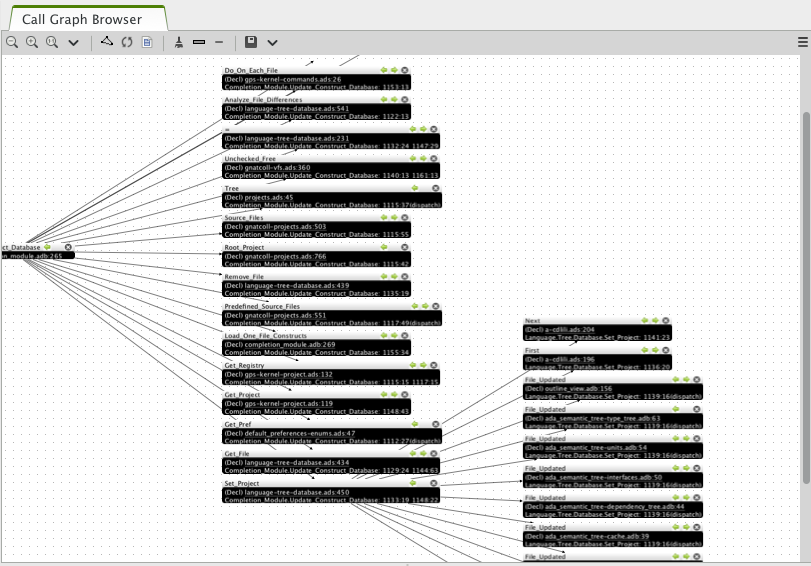
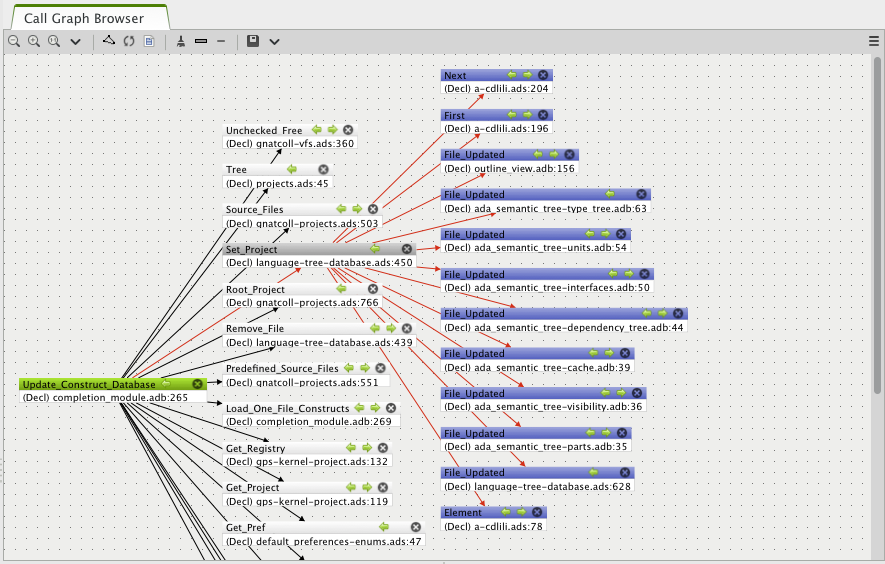
Update callgraph browers doc and screenshots after work in M916-025
git-svn-id: svn+ssh://svn.eu.adacore.com/Dev/trunk/gps@215818 936e1b1b-40f2-da11-902a-00137254ae57

diff --git a/docs/users_guide/main_window.rst b/docs/users_guide/main_window.rst
@@ -257,6 +257,9 @@ Some views are part of the default desktop, and thus are visible by default.
 The other views can always be opened through one of the submenus of the
 :menuselection:`Tools` menu, most often :menuselection:`Tools-->Views`.
 
+
+.. _browsers_features:
+
 Common features of the browsers
 -------------------------------
 
@@ -317,6 +320,9 @@ with the mouse, and provide the following additional capabilities:
   will keep the canvas more readable, at the cost of losing some information.
   You can also hide only a subset of the links. Even when the links are hidden,
   if you select an item then the items linked to it will still be highlighted.
+
+  The local settings menu in browsers has an option :guilabel:`straight links`
+  which can be toggled if you prefer to have orthogonal links.
 
 * Exporting :index:`image` :index:`callgraph; export`
 
@@ -921,7 +927,7 @@ Callgraph browser
 _________________
 
 .. image:: callgraph.png
-.. image:: call-graph.jpg
+.. image:: callgraph_orth.png
 
 The callgraph shows graphically the relationship between subprogram callers and
 callees. A link between two items indicate that one of them is calling the
@@ -973,6 +979,8 @@ with the additional items:
   and select the first node representing the file in which the entity is
   declared. This makes it easier to see which other entities are
   declared in the same file.
+
+See also :ref:`browsers_features` for more capabilities of the GPS browsers.
 
 .. index:: windows; bookmarks
 .. index:: bookmark
